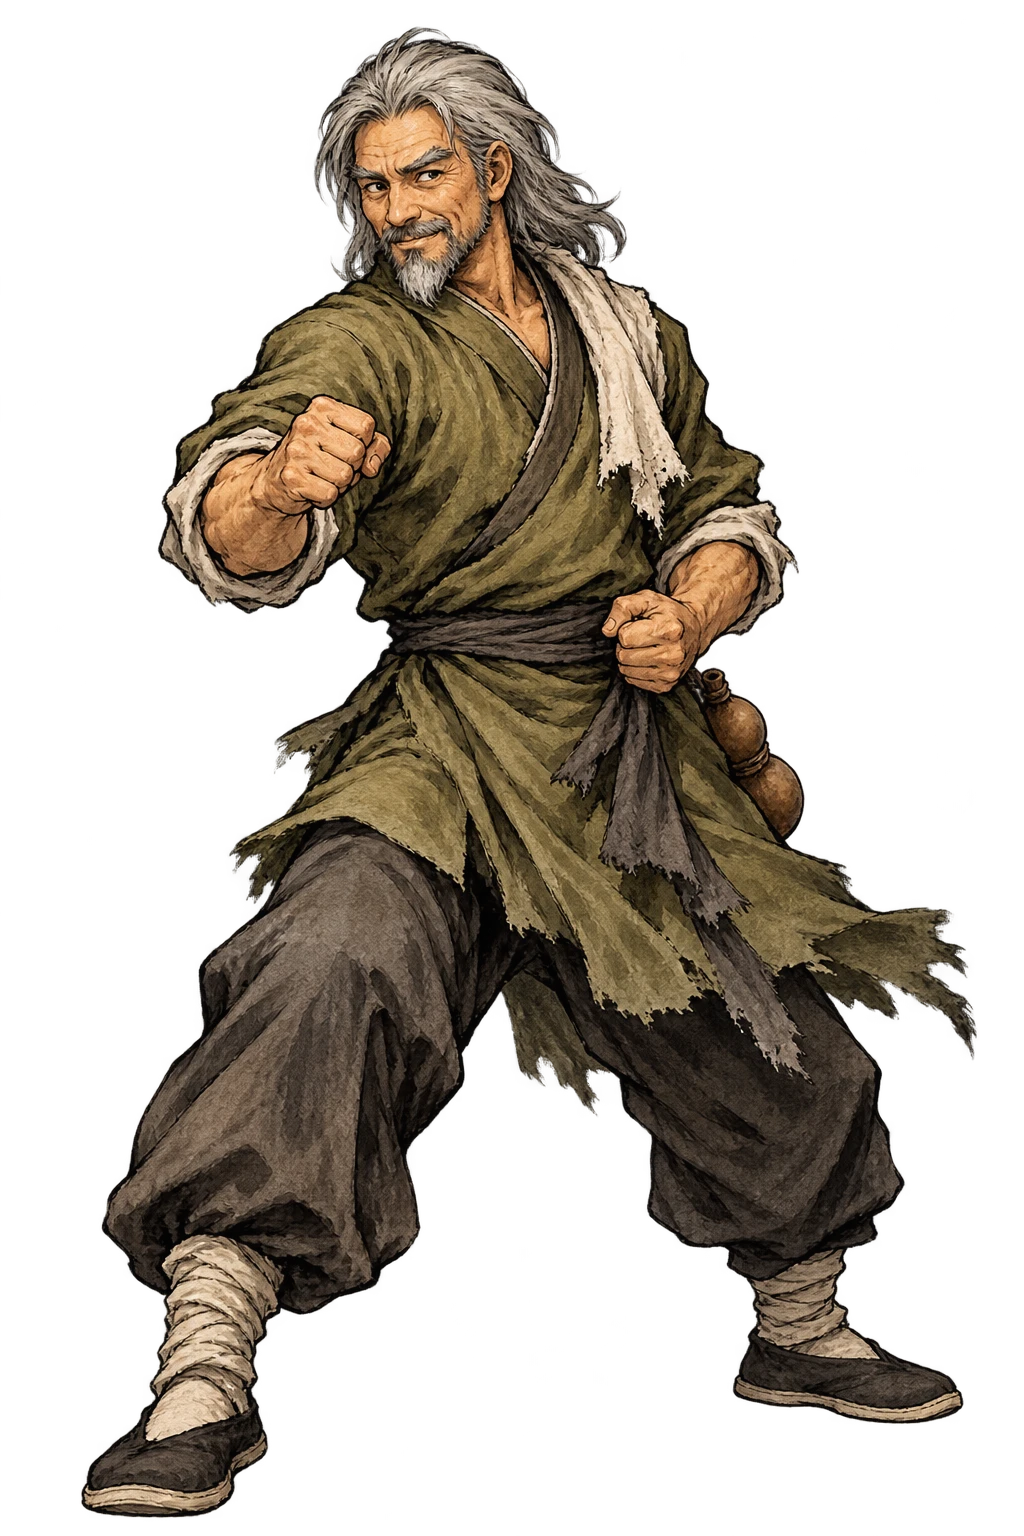
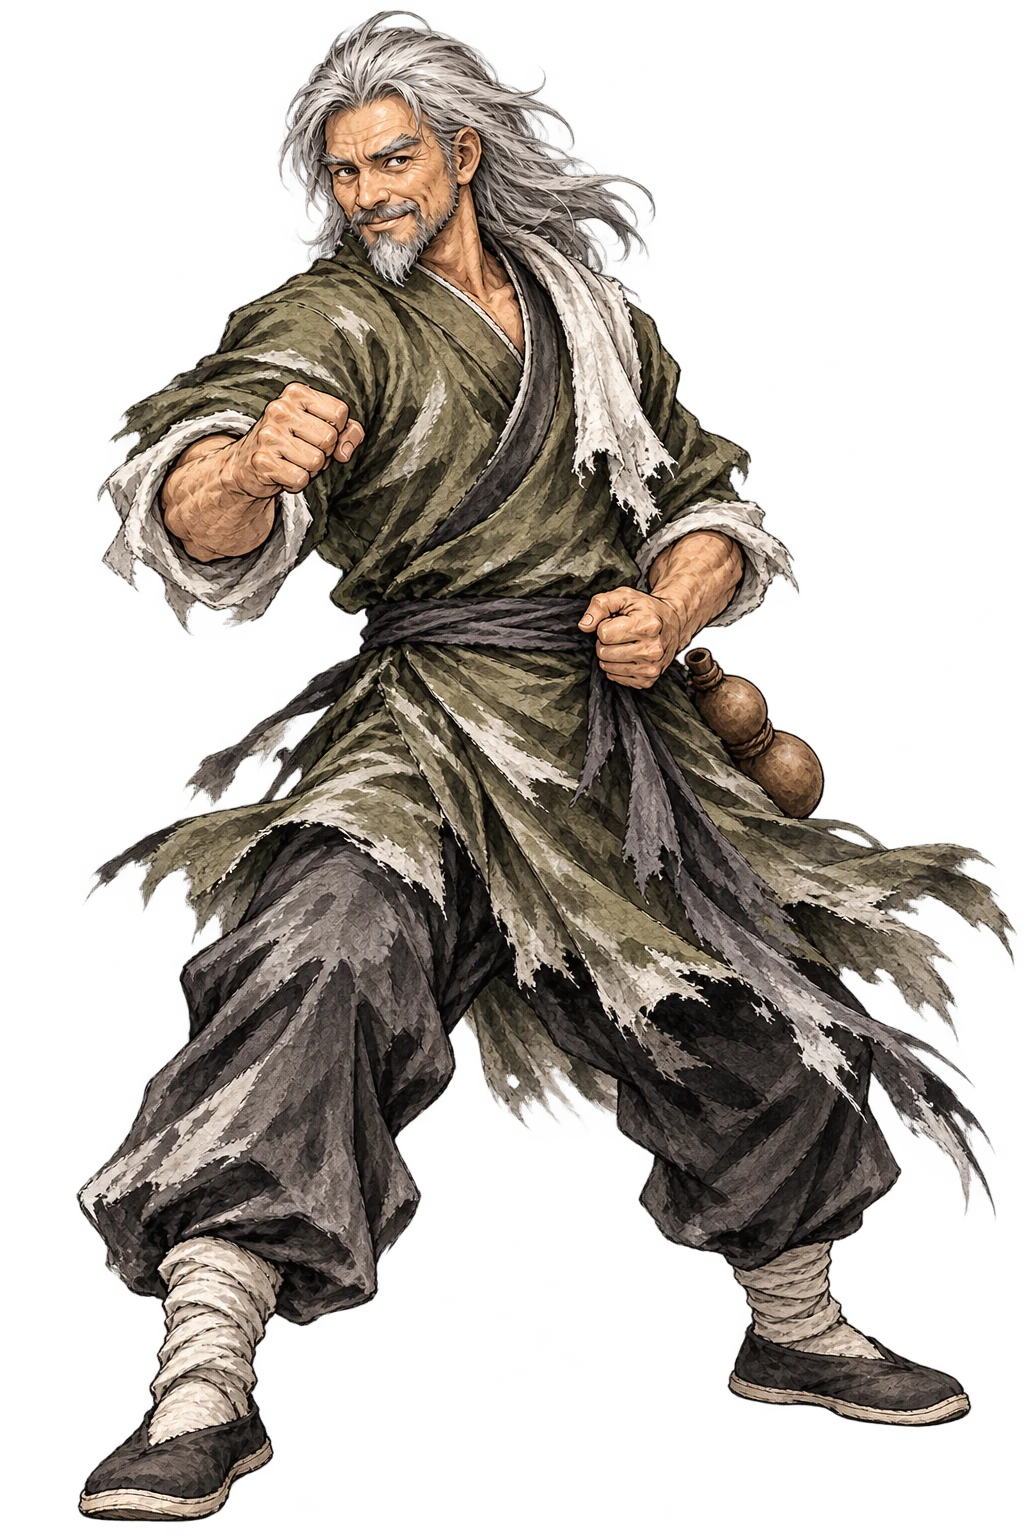
Old man: second art pass (ink-wash version), line breaks prefer a comma within the last five characters

diff --git a/docs/claude_diary.md b/docs/claude_diary.md
@@ -62,3 +62,4 @@
 - 2026-10-27：**老翁美術**到了：去背版 `assets/Character/cutout/old_man.png`（→ 對話頭像 `Old_Man_headshot.png`，zoom-out 0.34，`old_man_a.gd` 的 portrait_path 已指向）；有背版 `assets/sprites/battle_cards/enemy_old_fighter.webp`（→ `CardStageArt` 條目 `yuheng_old_fighter`，focus 0.44/0.17；神怪誌「演武老翁」已顯示）。EnemyDB 早就有 `yuheng_old_fighter`（演武老翁），打過比試後（`lore_enemy_<id>` 旗標）出現在神怪誌。**豪傑誌的老翁條目還沒做**（老闆在討論要不要；我建議要，解鎖點＝第一次對話後）。
   見聞錄神怪圖現在支援 `art_focus`（卡面條目的 focus），直式插畫會以焦點（臉）置中裁切。
   排版：尾行太短重排最後兩行時改用 `_fill_pair`（第一行盡量排滿、第二行至少 6 字、優先逗號後斷），不再平均成兩行一樣長（老翁「外物盡去…」那句）。
+- 2026-10-27：老翁美術換成第二版（水墨加工筆風：`cutout/old_man.png`、`enemy_old_fighter.webp`、`Old_Man_headshot.png` 已重做）。斷行：逗號優先斷點的視窗放寬到最後 5 字（貪婪斷行與 `_fill_pair`），避免「觸／及」被拆開；寫死 4→5 要留意 `test_dialog_text_layout` 的「第一行至少填到右緣前 5 字」。
